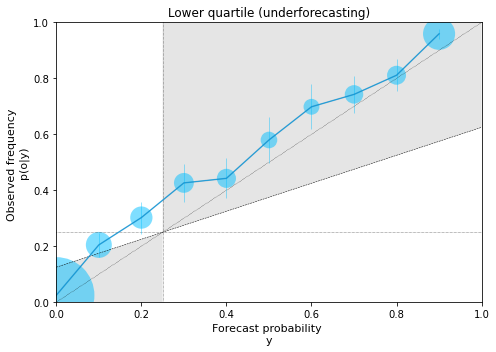
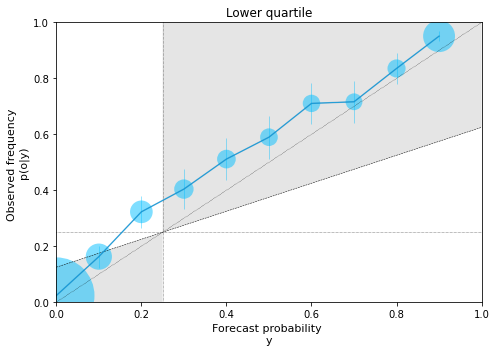
example updated in README.md

diff --git a/README.md b/README.md
@@ -133,26 +133,26 @@ print(c_table)
 ```
 ###### Output
 
-    array([[  77., 2811.],
-           [  86.,  292.],
-           [  72.,  184.],
-           [  69.,  118.],
-           [  79.,   79.],
-           [  97.,   60.],
-           [ 105.,   47.],
-           [ 111.,   33.],
-           [ 151.,   20.],
-           [ 494.,   15.]])
+    array([[  69., 2846.],
+           [  56.,  288.],
+           [  83.,  174.],
+           [  76.,  112.],
+           [  89.,   85.],
+           [  92.,   64.],
+           [ 108.,   44.],
+           [ 101.,   40.],
+           [ 137.,   27.],
+           [ 484.,   25.]])
 
 ###### Input
 ```python
-rel, res = data.forecast_attributes()
-print(rel, res)
+bs, rel, res = data.forecast_attributes()
+print(bs, rel, res)
 ```
 
 ###### Output
 
-    0.00040451128009458606 0.011559587280094586
+    0.08378799999999999 0.003151037068348895 0.11128203706834891
     
 * Plot reliability diagram
 
@@ -171,6 +171,7 @@ clim_x = clim_y = [q,q]
 sk_line = [q/2,(1-q)/2+q]
 
 # Plot
+# (in this example, the lower quartile is underforecasted)
 fig = pl.figure(figsize=(7,5))
 pl.plot(xd,yd,color='black',linestyle=':',linewidth=0.5)
 pl.plot(xd,clim_y,color='black',linestyle=':',linewidth=0.5)
@@ -185,7 +186,7 @@ pl.ylim(0.0,1.0)
 pl.xlim(0.0,1.0)
 pl.ylabel('Observed frequency \np(o|y)',fontsize=11)
 pl.xlabel('Forecast probability \ny',fontsize=11)
-pl.title("Lower quartile (underforecasting)")
+pl.title("Lower quartile ")
 pl.tight_layout()
 ```
 
@@ -230,6 +231,7 @@ clim_x = clim_y = [q,q]
 sk_line = [q/2,(1-q)/2+q]
 
 # Plot
+# (in this example, the model is inderconfident)
 fig = pl.figure(figsize=(7,5))
 pl.plot(xd,yd,color='black',linestyle=':',linewidth=0.5)
 pl.plot(xd,clim_y,color='black',linestyle=':',linewidth=0.5)
@@ -238,19 +240,18 @@ pl.plot(xd,sk_line,color='black',linestyle='--',linewidth=0.5)
 pl.fill_between(xd,xd,sk_line,facecolor='grey',alpha=0.2)
 pl.fill_betweenx(yd,yd,clim_x,facecolor='grey',alpha=0.2)
 pl.scatter(data_lt.bins,oi_lt,s=wti_lt*10000,color='deepskyblue',marker='o',alpha=0.5,edgecolors='none')
-pl.plot(data_lt.bins,oi_lt,color='deepskyblue',linestyle='-',linewidth=0.8, label="lower quartile")
+pl.plot(data_lt.bins,oi_lt,color='deepskyblue',linestyle='-',linewidth=0.8, label="lower tercile")
 pl.errorbar(data_lt.bins,oi_lt,yerr=[oi_lt - ci_low_lt, ci_upp_lt - oi_lt],ecolor='deepskyblue',elinewidth=0.8,alpha=0.5)
 pl.scatter(data_ut.bins,oi_ut,s=wti_ut*10000,color='orange',marker='o',alpha=0.5,edgecolors='none')
-pl.plot(data_ut.bins,oi_ut,color='orange',linestyle='-',linewidth=0.8, label="upper quartile")
+pl.plot(data_ut.bins,oi_ut,color='orange',linestyle='-',linewidth=0.8, label="upper tercile")
 pl.errorbar(data_ut.bins,oi_ut,yerr=[oi_ut - ci_low_ut, ci_upp_ut - oi_ut],ecolor='orange',elinewidth=0.8,alpha=0.5)
 pl.ylim(0.0,1.0)
 pl.xlim(0.0,1.0)
 pl.legend()
 pl.ylabel('Observed frequency \np(o|y)',fontsize=11)
 pl.xlabel('Forecast probability \ny',fontsize=11)
-pl.title("(underconfident model)")
+pl.title("Terciles")
 pl.tight_layout()
-pl.show()
 ```
 
 ###### Output
